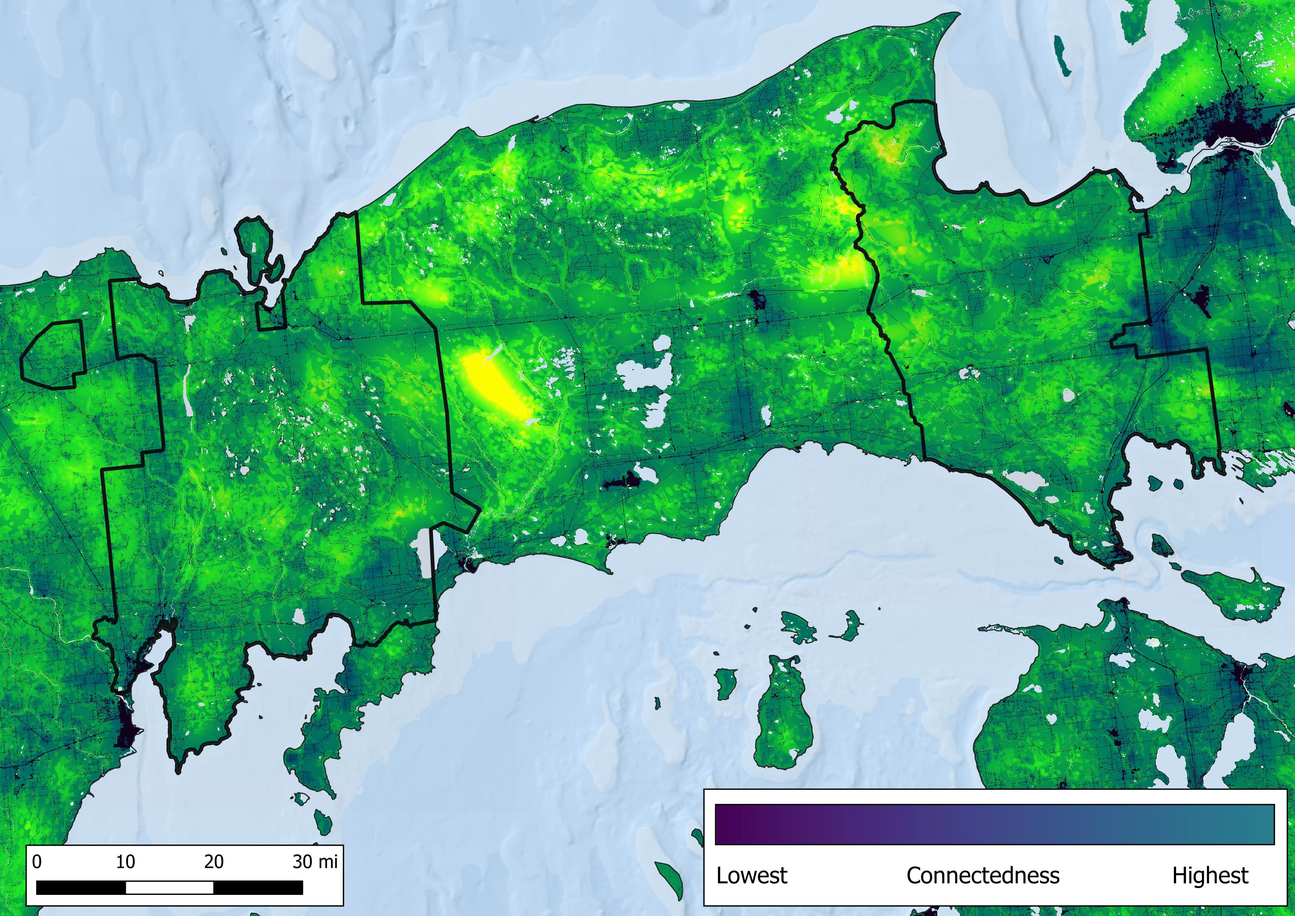
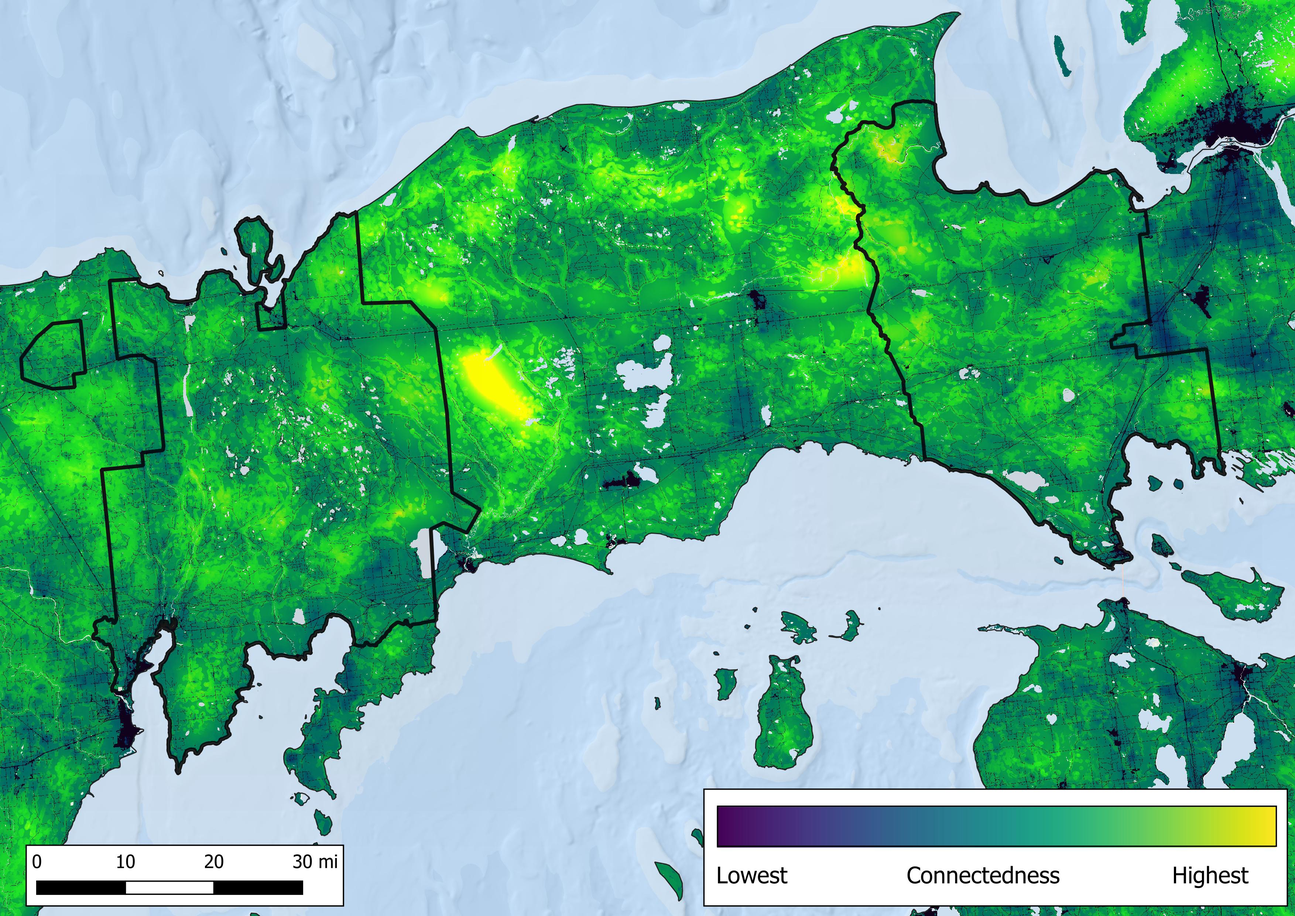
fixed RCN legend maps

Changed region(s): [[0.5595, 0.8694, 0.9946, 0.9315]]

diff --git a/docs/rcn.html b/docs/rcn.html
@@ -147,7 +147,7 @@ ul.task-list li input[type="checkbox"] {
 <p>Describe this page a bit</p>
 <section id="summary" class="level2">
 <h2 class="anchored" data-anchor-id="summary">Summary</h2>
-<p>There are many ways to explore what a landscape might look like in the future. Below are maps of datasets produced by the <a href="https://crcs.tnc.org/">Center for Resilient Conservation Science</a> that help us assess “the stage” so to speak, or the potential of a landscape to cope with climate change.</p>
+<p>There are many ways to explore what a landscape might look like in the future. Below are maps of datasets produced by the <a href="https://crcs.tnc.org/">Center for Resilient Conservation Science</a> that help us assess “the stage” so to speak, or the potential of a landscape to cope with climate change. Exploring places where resiliency, connectivity and management opportunities line up may help hedge against climate stressors.</p>
 </section>
 <section id="resilient-sites" class="level2">
 <h2 class="anchored" data-anchor-id="resilient-sites">Resilient Sites</h2>
